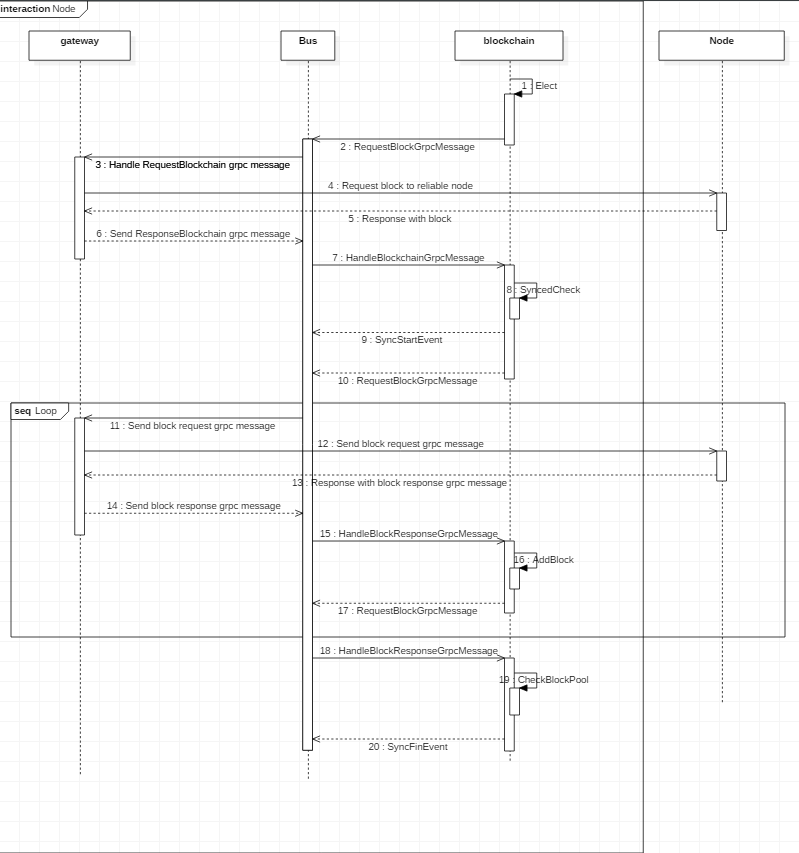
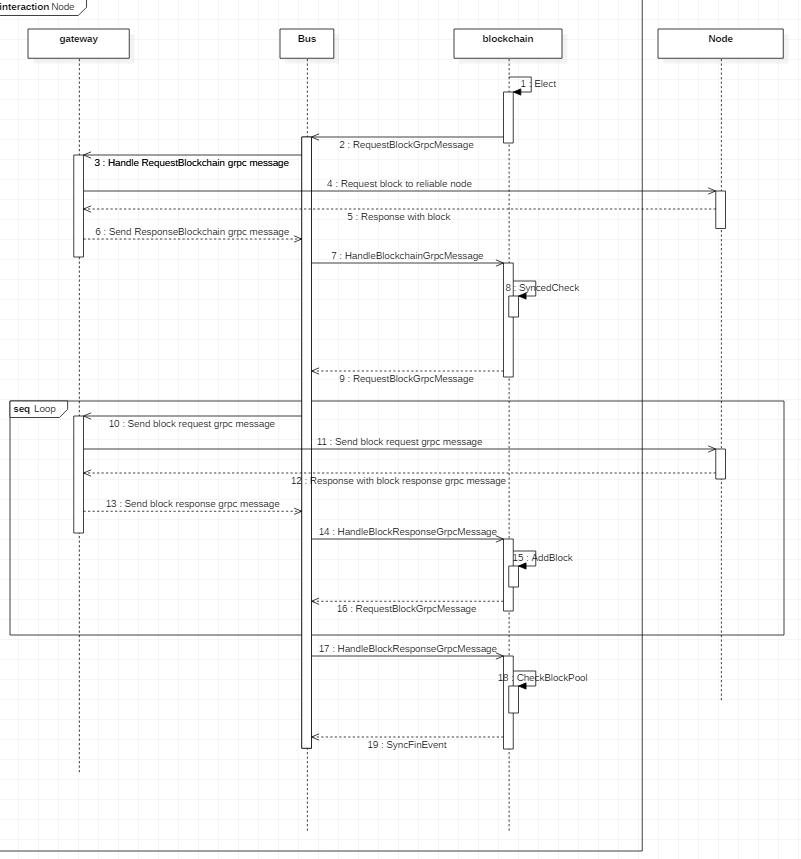
update implementation-details, fix images

diff --git a/blockchain/PROJECT-IMPLEMENTATION-DETAILS-KR.md b/blockchain/PROJECT-IMPLEMENTATION-DETAILS-KR.md
@@ -109,21 +109,21 @@
 ### 예외 사항 처리
 
 * 동기화 중일 때는 합의에 참여하지 못하지만, 리더로부터 합의 된 블록은 받을 수 있다. 받은 블록은 BlockPool에 저장되고, 구축(Construct)단계가 끝나면 추가하게 된다.
+  1. **BlockPool에 있는 block height가 Construct 단계에서 마지막으로 받은 block height보다 1만큼 크다면** prev hash값을 확인하고 valid하다면 blockchain에 추가한다.
+  2. **BlockPool에 있는 block height가 Construct 단계에서 마지막으로 받은 block height보다 1보다 크다면** Reliable Node보다 긴 blockchain을 가지고 있는 노드가 있다는 뜻이므로 Reliable Node를 다시 선정해서 synchronize 과정을 반복한다. 이때 다시 선정한 Reliable Node로부터 height가 BlockPool에 있는 block height보다 1 작은 block까지 받아온다. 받아오는 과정이 끝나면 1번의 과정을 반복한다.
 * 구축(Construct) 과정은 긴 시간이 걸릴 수 있기 때문에 구축과정 중간에 네트워크 연결이 끊겨버리는 문제를 생각해야 한다.: (1) 자기 자신과 네트워크 사이에서 연결이 끊긴 경우와 (2) Reliable Node가 네트워크와 연결이 끊긴 경우가 있을 수 있다.
   1. **자기 자신과 네트워크 사이에서 연결이 끊긴 경우,** 다시 연결이 되었을 때, 동기화 과정을 다시 시작하면 된다. 예를 들어 생각해보면, Reliable Node로부터 101번 block부터 10000번 block을 하나씩 받고 있는 도중 500번 block을 받고 연결이 끊겨버렸다. 그러면 다시 연결이 되었을 때, Reliable Node를 다시 선정해서 501번째 block부터 다시 받기 시작하면 된다.
   2. **Reliable Node가 네트워크와 연결이 끊긴 경우,** 마찬가지로 동기화 과정을 처음부터 시작하면 된다. 다시 Reliable Node를 선정하고 나의 마지막 block의 다음 block부터 요청한다.
- 
 
-### Reliable Node 후보 저장
+
+### Reliable Node
 
 ![blockchain-reliablenode-seq](../images/blockchain-reliablenode-implementation-seq.PNG)
 
 
-blockchain 컴포넌트는 동기화를 할 때 Reliable Node 선정을 위해서 Reliable Node 후보들을 가지고 있어야한다.
+blockchain 컴포넌트는 동기화를 할 때 blockchain의 길이가 가장 긴 Node를 Reliable Node로 선정하여, 그 Node를 대상으로 Construct 단계를 진행하게 된다.
 
-Reliable Node 후보들은 다음과 같은 방식으로 유지된다. blockchain은 자신의 Reliable Node 상태(노드의 갯수, IDs)를 알리는 NodeUpdateEvent를 전파한다. 그리고 p2p에서는 Reliable Node들이 특정 개수보다 모자라다면 필요한 양만큼 Reliable Node 후보들을 충당할 수 있는 NodeUpdateCommand를 Command Service에서 보내게된다. 그리고 blockchain에서는 Command Handler에서 command를 받은 후, 특정 개수의 unique한 Reliable Node들을 유지하게 된다.
-
-네트워크에서 노드들의 상태가 변화했을 때, p2p에서는 변화한 노드들의 event를 전파하게된다. blockchain에서는 Event Handler에서 event를 받아 변화한 노드들이 현재 Reliable Node 후보 중에 있는지 확인하고 없으면 그대로 지나가게 되지만 있다면 해당 노드를 후보 리스트에서 삭제하고 NodeUpdateEvent를 다시 전파하게된다.
+Node의 정보는 p2p의 peer-table에서 받아온다. peer-table에서 받아온 Node 정보로 각 Node에게 blockchain 정보를 얻어와서 height가 가장 긴 Nodes 중 한 명을 Reliable Node를 선정한다.
 
 
 ### Author
